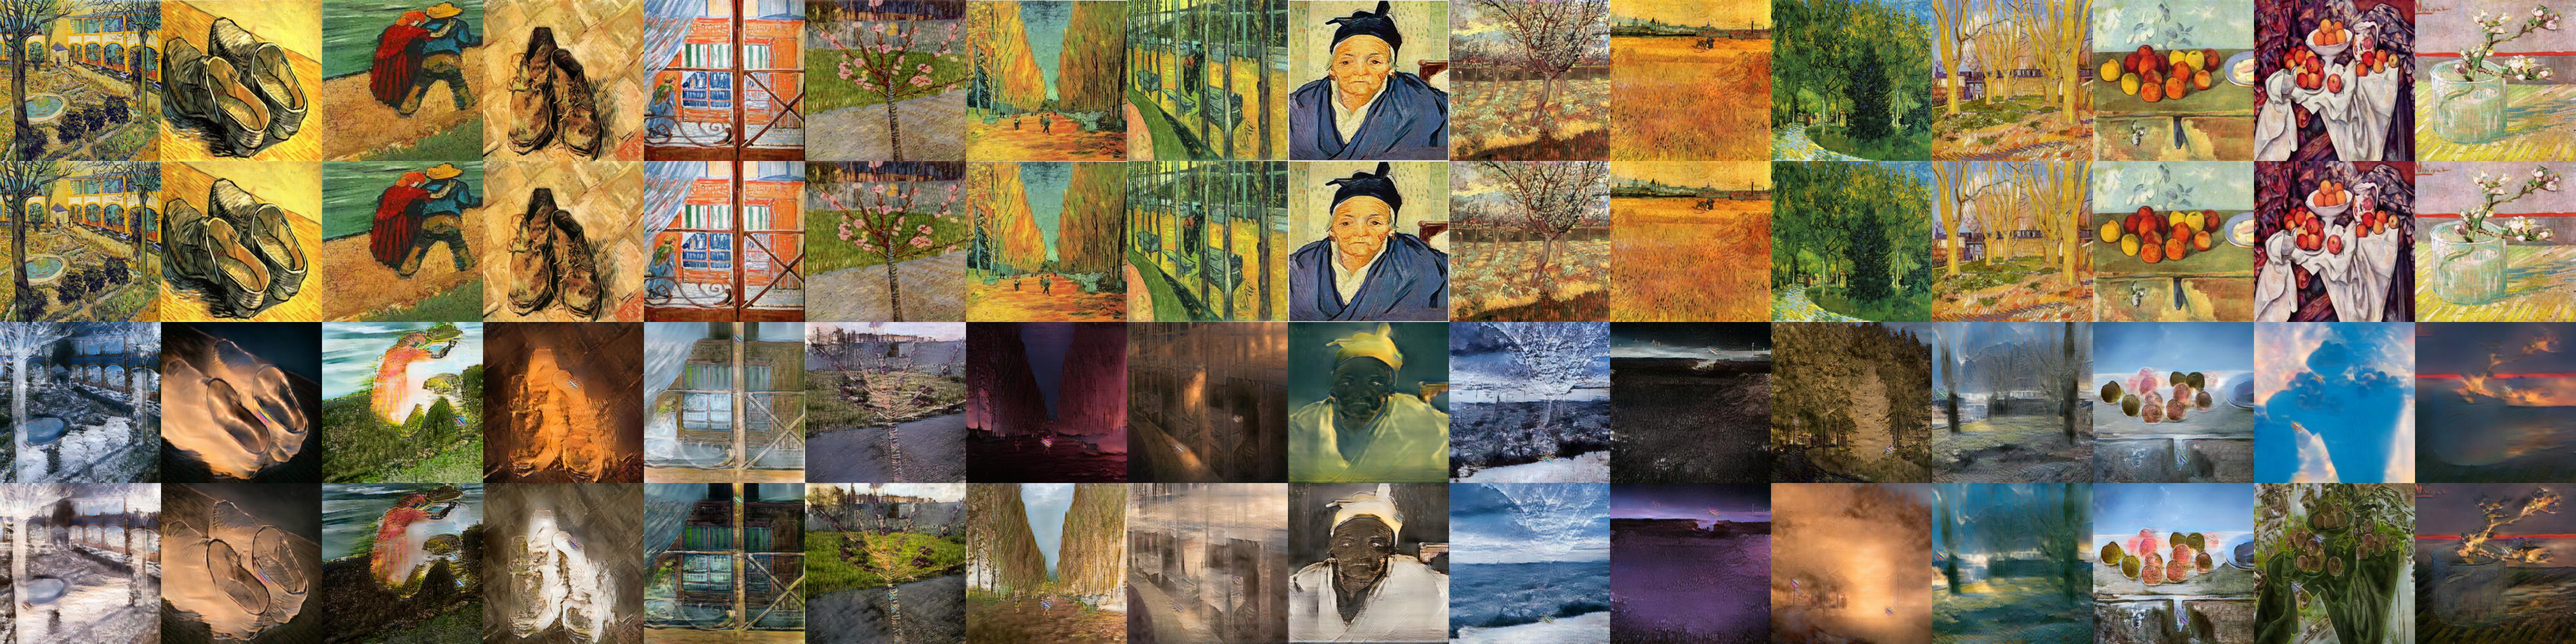
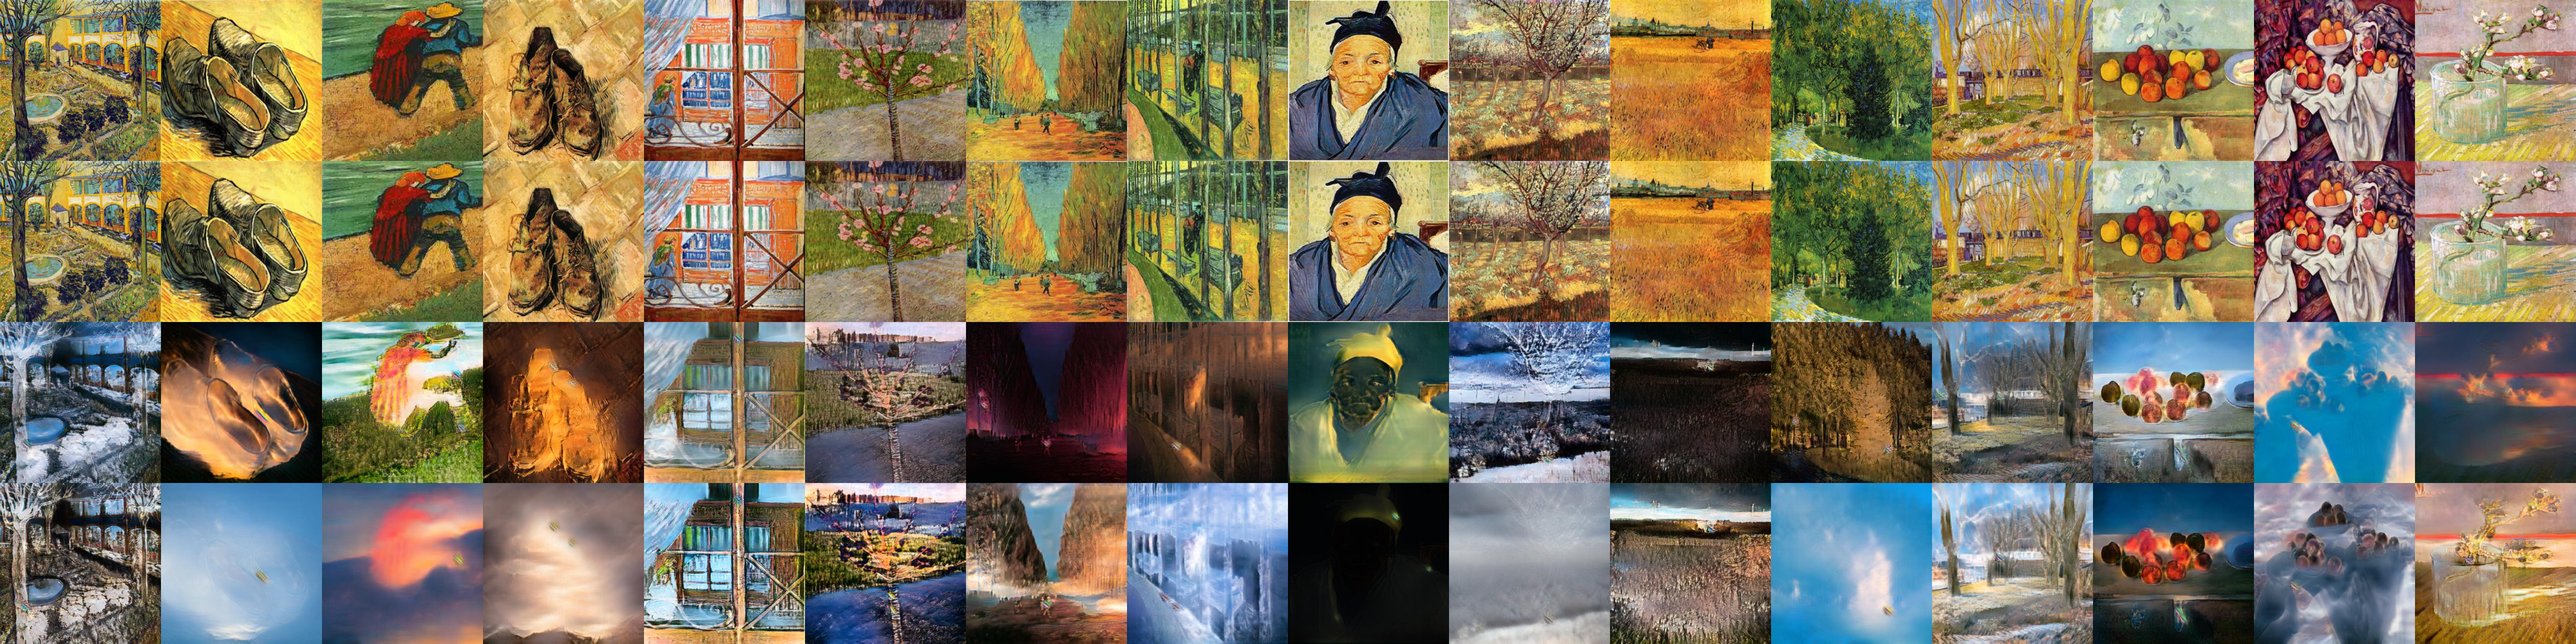
lattest attempt

Changed region(s): [[0.0, 0.4688, 1.0, 1.0], [0.4375, 0.5938, 0.4688, 0.625], [0.4062, 0.6875, 0.4375, 0.7188]]

diff --git a/model/new_munit_vgg.py b/model/new_munit_vgg.py
@@ -30,8 +30,8 @@ import torchvision.utils as vutils
 from torch.utils.data import DataLoader
 
 
-checkpoint_directory = '/home/diegushko/checkpoint/cezanne2photo'
-image_directory = '/home/diegushko/github/MUNIT_Lite_Pytorch/out_images' #output images
+checkpoint_directory = '/home/diegushko/checkpoint/art2photo'
+image_directory = '/home/diegushko/github/MUNIT_Lite_Pytorch/out_art' #output images
 
 device = 'cuda:1' if torch.cuda.is_available() else 'cpu'
 
@@ -91,7 +91,7 @@ params = {
 'new_size': 384,                               # first resize the shortest image side to this size
 'crop_image_height': 384,                      # random crop image of this height
 'crop_image_width': 384,                       # random crop image of this width
-'data_root': '/home/diegushko/dataset/vangogh2photo'   # dataset folder location
+'data_root': '/home/diegushko/dataset/art2photo'   # dataset folder location
 }
 
 IMG_EXTENSIONS = [
@@ -1063,7 +1063,7 @@ def get_model_list(dirname, key):
     last_model_name = gen_models[-1]
     return last_model_name
 
-train_resume = True
+train_resume = False
 
 iterations = trainer.resume(checkpoint_directory, params) if train_resume else 0
 
